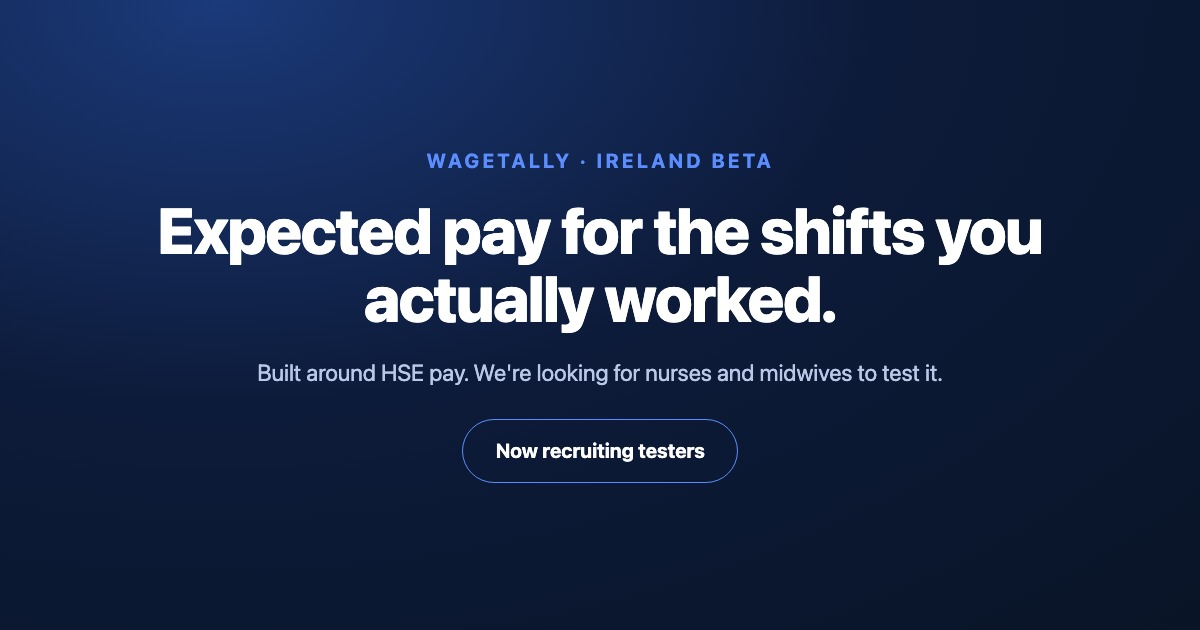
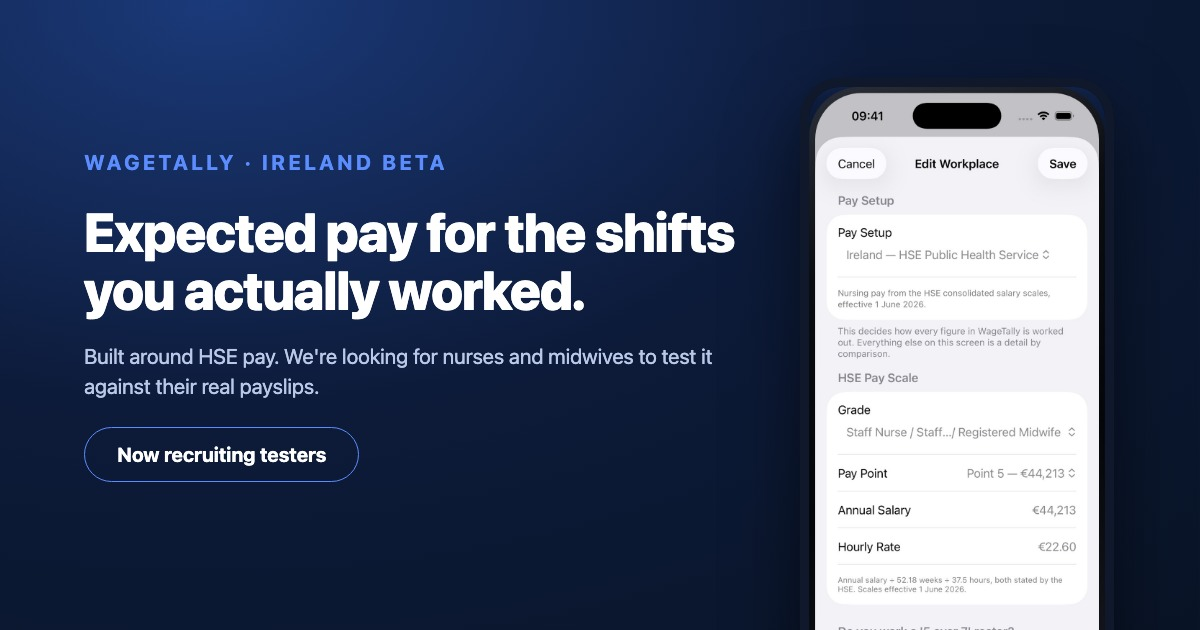
Stop the form pretending, and stop six pages previewing as ShiftProof
Two separate things were shipping broken.

The beta form posted to https://formspree.io/f/YOUR_FORM_ID, which answers 404
FORM_NOT_FOUND. With JavaScript the fetch failed into the error state, which was
survivable; without it the browser navigated the applicant to a third-party JSON
404 and lost them. The endpoint now lives in one place — BETA_FORM_ENDPOINT at
the top of main.js — and the markup carries no action at all until it is set, so
there is nothing to post into. While it is empty, submitting shows a panel that
says plainly that nothing was sent and hands over the two routes that do work:
the TestFlight link, and a mailto pre-filled with the answers just typed. The
privacy note, which promises a Formspree hand-off, is corrected in place before
anyone types rather than after. The success state cannot be reached without a
real endpoint, which was the point.

Separately, og:image on the homepage and all five guides pointed at the old App
Store compositions. Those are 1290x2796 portraits of ~1.4MB with SHIFTPROOF set
as the eyebrow, so every share of those pages on LinkedIn or Facebook previewed
under the old name — on exactly the channels the beta is being recruited
through. og-card.html now renders two proper 1200x630 cards: a text-only one for
the general pages, and an Ireland one carrying a real device shot, now that
there is a WageTally build to shoot. It windows onto the shipped composite with
[…]

diff --git a/tools/og-card.html b/tools/og-card.html
@@ -1,9 +1,22 @@
 <!doctype html>
-<!-- Generator for the 1200x630 social card. Rendered headless at exactly
-     1200x630; see tools/README-og.md for the command. Kept in the repo so the
-     card can be regenerated when the wordmark, claim or domain changes. -->
+<!-- Generator for the 1200x630 social cards. Rendered headless at exactly
+     1200x630; see tools/README-og.md for the commands. Kept in the repo so the
+     cards can be regenerated when the wordmark, claim or domain changes.
+
+     Two cards from one file, chosen with ?card=home or ?card=ie:
+       home — every page except the Ireland beta. Text only, deliberately: the
+              only device shots that are brand-clean and general are the US set,
+              and putting a dollar figure on the card for a site whose current
+              push is Ireland reads as a mismatch.
+       ie   — the Ireland beta page, and the card that actually gets shared in
+              outreach. It carries a real device shot, because a nurse who has
+              never heard of WageTally is deciding in one glance whether this is
+              a working app or a landing page.
+
+     The device shot is windowed out of the shipped composite with the same
+     percentages styles.css uses, so no extra asset has to be committed and the
+     phone can never drift from what the site shows. -->
 <html lang="en"><head><meta charset="utf-8">
-<link rel="stylesheet" href="../styles.css">
 <style>
   html,body{margin:0;padding:0;width:1200px;height:630px;overflow:hidden}
   .card{width:1200px;height:630px;display:flex;align-items:center;
@@ -15,20 +28,60 @@
   p{font-size:23px;line-height:1.42;color:#b9c8e6;margin:0 0 30px}
   .pill{display:inline-block;padding:15px 32px;border-radius:999px;border:1px solid #5C8DFF;
         color:#fff;font-size:20px;font-weight:700}
-  .phone{position:absolute;right:64px;top:64px;width:330px;height:640px;border-radius:44px;
-         border:11px solid #10182b;overflow:hidden;background:#f2f4f8;
-         box-shadow:0 30px 70px rgba(0,0,0,.45)}
-  .phone img{width:100%;display:block}
+
+  /* Two-column variant, used when a device shot is present. */
+  body.has-phone .left{width:auto;max-width:660px;text-align:left;padding:0 0 0 84px}
+  body.has-phone h1{font-size:54px}
+  body.has-phone p{font-size:21px;margin-bottom:26px}
+
+  .phone{position:absolute;right:86px;top:78px;width:296px;
+         aspect-ratio:758 / 1611;border-radius:40px;overflow:hidden;
+         background:#0b0d11;border:9px solid #10182b;
+         box-shadow:0 30px 70px rgba(0,0,0,.5)}
+  /* Same window styles.css performs: the composite is 1290 wide and the device
+     box inside it is 758 x 1611 at x 266, y 980. */
+  .phone img{position:absolute;width:170.185%;left:-35.092%;top:-60.832%;max-width:none}
 </style></head><body>
 <div class="card">
   <div class="left">
-    <p class="eyebrow">WAGETALLY · IRELAND BETA</p>
-    <h1>Expected pay for the shifts you actually worked.</h1>
-    <p>Built around HSE pay. We're looking for nurses and midwives to test it.</p>
-    <span class="pill">Now recruiting testers</span>
+    <p class="eyebrow" id="eyebrow"></p>
+    <h1 id="headline"></h1>
+    <p id="sub"></p>
+    <span class="pill" id="pill"></span>
   </div>
-  <!-- No device shot until the screenshots are re-captured from a WageTally
-       build: the current ones carry the old wordmark in the template AND in
-       the app UI inside them, so embedding one would ship mixed branding. -->
+  <div class="phone" id="phone" hidden>
+    <img src="../assets/web/WageTallyIE-02-BuiltAroundHSEPay.jpg" alt="">
+  </div>
 </div>
+<script>
+  var CARDS = {
+    home: {
+      eyebrow: 'WAGETALLY',
+      headline: 'Know what your shifts should pay.',
+      sub: 'Record the shifts you actually worked, see every premium that applies, then hold the total against your payslip.',
+      // No pill. "On the App Store" would send people to a listing still named
+      // ShiftProof Pay Tracker, and a pricing claim is not worth the risk here.
+      pill: '',
+      phone: false
+    },
+    ie: {
+      eyebrow: 'WAGETALLY · IRELAND BETA',
+      headline: 'Expected pay for the shifts you actually worked.',
+      sub: "Built around HSE pay. We're looking for nurses and midwives to test it against their real payslips.",
+      pill: 'Now recruiting testers',
+      phone: true
+    }
+  };
+  var key = new URLSearchParams(location.search).get('card') || 'home';
+  var c = CARDS[key] || CARDS.home;
+  document.getElementById('eyebrow').textContent = c.eyebrow;
+  document.getElementById('headline').textContent = c.headline;
+  document.getElementById('sub').textContent = c.sub;
+  var pill = document.getElementById('pill');
+  if (c.pill) { pill.textContent = c.pill; } else { pill.remove(); }
+  if (c.phone) {
+    document.body.classList.add('has-phone');
+    document.getElementById('phone').hidden = false;
+  }
+</script>
 </body></html>

diff --git a/ireland-beta.html b/ireland-beta.html
@@ -213,9 +213,13 @@
       </div>
 
       <div class="glass-card ie-form-card">
-        <!-- FORMSPREE ENDPOINT: replace YOUR_FORM_ID below with the endpoint from
-             formspree.io once the form is created. Nothing else needs to change. -->
-        <form class="ie-form" action="https://formspree.io/f/YOUR_FORM_ID" method="POST">
+        <!-- The endpoint lives in ONE place: BETA_FORM_ENDPOINT at the top of
+             main.js. It is deliberately empty until a real form exists, and
+             there is no action="" fallback here on purpose — a placeholder
+             endpoint would post applicants to a third-party 404 page. While the
+             endpoint is empty, main.js intercepts the submit and shows them a
+             route that actually works. -->
+        <form class="ie-form" method="POST">
           <div class="ie-field">
             <label for="name">Your name</label>
             <input type="text" id="name" name="name" autocomplete="name" required>
@@ -251,6 +255,9 @@
 
           <button type="submit" class="btn btn-primary">Apply to join</button>
           <p class="ie-hint ie-form-privacy">This form sends your name, email and answers to us by email through Formspree, the service that handles the form. We use it to contact you about the beta and nothing else. It's separate from the app — the app itself has no account and sends nothing anywhere.</p>
+          <noscript>
+            <p class="ie-hint">This form needs JavaScript to send. With it switched off, email <a href="mailto:bfoster1267@gmail.com">bfoster1267@gmail.com</a> instead — your name, whether you're a nurse or midwife, and whether you're paid under HSE Public Health Service arrangements is all we need. You can <a href="https://testflight.apple.com/join/f9T3AmDC">install the beta on TestFlight</a> straight away either way.</p>
+          </noscript>
         </form>
 
         <!-- Replaces the form after a successful submit. The TestFlight link is
@@ -261,6 +268,19 @@
           <p>Open this on your iPhone and TestFlight will install WageTally:</p>
           <a class="btn btn-primary" href="https://testflight.apple.com/join/f9T3AmDC">Install the beta</a>
           <p class="ie-hint">We'll be in touch by email in a day or two. If the link gives you any trouble, just reply and we'll sort it out.</p>
+        </div>
+
+        <!-- Shown instead of a submit while BETA_FORM_ENDPOINT is empty. It says
+             plainly that nothing was sent, which the error state above cannot do
+             honestly — that one blames a transient fault. TestFlight is revealed
+             here even though the design normally screens first, because the link
+             is already public in "Getting the app" above and stranding someone is
+             the worse outcome. -->
+        <div class="ie-form-done" id="ie-form-unconfigured" hidden>
+          <h3>Nothing was sent — and that's our fault, not yours.</h3>
+          <p>The application form isn't connected to anything yet. Your answers stayed in your browser. Both of these work right now:</p>
+          <a class="btn btn-primary" href="https://testflight.apple.com/join/f9T3AmDC">Install the beta on TestFlight</a>
+          <p class="ie-hint">Then email <a id="ie-form-mailto" href="mailto:bfoster1267@gmail.com">bfoster1267@gmail.com</a> so we know who you are and can follow up — that link opens a message with the answers you just typed already in it. Nothing is sent until you press send in your own mail app.</p>
         </div>
       </div>
     </div>

diff --git a/main.js b/main.js
@@ -1,5 +1,16 @@
-// ShiftProof Website — Main Script
+// WageTally Website — Main Script
 // Minimal vanilla JS for mobile menu and accessibility
+
+// The Ireland beta form's endpoint, and the only line to change to switch the
+// form on. Create a form at formspree.io (or any service that accepts a POST of
+// FormData and answers JSON), then paste its endpoint here, e.g.
+//   var BETA_FORM_ENDPOINT = 'https://formspree.io/f/abcdwxyz';
+//
+// While it is empty the form does not pretend to work: it never posts anywhere,
+// and submitting shows the applicant the TestFlight link and a pre-filled email
+// instead. Do not put a placeholder id here — the previous one posted people to
+// a third-party 404.
+var BETA_FORM_ENDPOINT = '';
 
 // Mobile Menu Toggle
 document.addEventListener('DOMContentLoaded', function() {
@@ -330,11 +341,30 @@ function initBetaForm() {
   if (!done || !error || !button) return;
 
   var label = button.textContent;
+  var endpoint = (typeof BETA_FORM_ENDPOINT === 'string' ? BETA_FORM_ENDPOINT : '').trim();
+
+  // No endpoint means no submission, ever. Setting form.action only when one
+  // exists keeps a JS-less browser from posting into the void as well.
+  if (endpoint) {
+    form.action = endpoint;
+  } else {
+    // The privacy note describes a Formspree hand-off that is not happening
+    // yet. Correct it before anyone types into the form rather than after.
+    var privacy = form.querySelector('.ie-form-privacy');
+    if (privacy) {
+      privacy.textContent = "Heads up: this form isn't connected yet, so pressing Apply won't send anything — it will show you how to reach us instead. You can install the beta on TestFlight now either way.";
+    }
+  }
 
   form.addEventListener('submit', function (event) {
     // Let the browser show its own validation UI before we take over.
     if (!form.checkValidity()) return;
     event.preventDefault();
+
+    if (!endpoint) {
+      showUnconfigured(form);
+      return;
+    }
 
     error.hidden = true;
     button.disabled = true;
@@ -357,4 +387,34 @@ function initBetaForm() {
       button.textContent = label;
     });
   });
+}
+
+// Swaps the form for a state that says nothing was sent, and hands over the two
+// routes that do work: TestFlight, and an email pre-filled with what they typed.
+// The mailto is built here rather than in markup so it carries their answers; it
+// opens their own mail client and sends nothing on its own.
+function showUnconfigured(form) {
+  var panel = document.getElementById('ie-form-unconfigured');
+  if (!panel) return;
+
+  var link = document.getElementById('ie-form-mailto');
+  if (link) {
+    var data = new FormData(form);
+    var lines = [
+      'Name: ' + (data.get('name') || ''),
+      'Nurse or midwife: ' + (data.get('role') || ''),
+      'Paid under HSE Public Health Service arrangements: ' + (data.get('hse') || ''),
+      'Has an iPhone: ' + (data.get('iphone') ? 'Yes' : 'No'),
+      '',
+      "I'd like to join the WageTally Ireland beta."
+    ];
+    link.href = link.href.split('?')[0]
+      + '?subject=' + encodeURIComponent('WageTally Ireland beta')
+      + '&body=' + encodeURIComponent(lines.join('\n'));
+  }
+
+  form.hidden = true;
+  panel.hidden = false;
+  panel.setAttribute('tabindex', '-1');
+  panel.focus();
 }

diff --git a/index.html b/index.html
@@ -9,7 +9,7 @@
   <!-- Open Graph -->
   <meta property="og:title" content="WageTally – Know Your Next Paycheck">
   <meta property="og:description" content="Calculate your expected gross pay automatically. Track shifts, overtime, differentials, and premiums.">
-  <meta property="og:image" content="https://bfoster1267-ctrl.github.io/Shiftproof-website/assets/ShiftProof-01-KnowYourNextPaycheck.png">
+  <meta property="og:image" content="https://bfoster1267-ctrl.github.io/Shiftproof-website/assets/WageTally-og.jpg">
   <meta property="og:type" content="website">
   <link rel="canonical" href="https://bfoster1267-ctrl.github.io/Shiftproof-website/">
 
@@ -54,7 +54,7 @@
     "@type": "Organization",
     "name": "WageTally",
     "url": "https://bfoster1267-ctrl.github.io/Shiftproof-website/",
-    "logo": "https://bfoster1267-ctrl.github.io/Shiftproof-website/assets/ShiftProof-01-KnowYourNextPaycheck.png"
+    "logo": "https://bfoster1267-ctrl.github.io/Shiftproof-website/assets/WageTally-og.jpg"
   }
   </script>
 

diff --git a/articles/shift-differentials-explained.html b/articles/shift-differentials-explained.html
@@ -7,7 +7,7 @@
   <meta name="description" content="How night, weekend, and holiday shift differentials typically work, how they're usually calculated, and how to check they're showing up in your expected gross pay.">
   <meta property="og:title" content="Shift Differentials Explained: Night, Weekend & Holiday Pay">
   <meta property="og:description" content="How night, weekend, and holiday shift differentials typically work.">
-  <meta property="og:image" content="https://bfoster1267-ctrl.github.io/Shiftproof-website/assets/ShiftProof-04-NeverMissPremiumPay.png">
+  <meta property="og:image" content="https://bfoster1267-ctrl.github.io/Shiftproof-website/assets/WageTally-og.jpg">
   <meta property="og:type" content="article">
   <link rel="canonical" href="https://bfoster1267-ctrl.github.io/Shiftproof-website/articles/shift-differentials-explained.html">
 

diff --git a/articles/pay-periods-explained.html b/articles/pay-periods-explained.html
@@ -7,7 +7,7 @@
   <meta name="description" content="The difference between weekly, biweekly, and semimonthly pay periods, why your pay dates shift, and why it matters for how overtime is calculated.">
   <meta property="og:title" content="Pay Periods Explained: Weekly, Biweekly & Semimonthly">
   <meta property="og:description" content="The difference between weekly, biweekly, and semimonthly pay periods, and why your dates shift.">
-  <meta property="og:image" content="https://bfoster1267-ctrl.github.io/Shiftproof-website/assets/ShiftProof-05-MonthlyEarnings.png">
+  <meta property="og:image" content="https://bfoster1267-ctrl.github.io/Shiftproof-website/assets/WageTally-og.jpg">
   <meta property="og:type" content="article">
   <link rel="canonical" href="https://bfoster1267-ctrl.github.io/Shiftproof-website/articles/pay-periods-explained.html">
 

diff --git a/articles/checking-your-paycheck.html b/articles/checking-your-paycheck.html
@@ -7,7 +7,7 @@
   <meta name="description" content="A step-by-step way to compare your expected gross pay against your actual paycheck — what to check first, and what to do if the numbers don't match.">
   <meta property="og:title" content="Checking Your Paycheck Against the Shifts You Worked">
   <meta property="og:description" content="A step-by-step way to compare your expected gross pay against your actual paycheck.">
-  <meta property="og:image" content="https://bfoster1267-ctrl.github.io/Shiftproof-website/assets/ShiftProof-01-KnowYourNextPaycheck.png">
+  <meta property="og:image" content="https://bfoster1267-ctrl.github.io/Shiftproof-website/assets/WageTally-og.jpg">
   <meta property="og:type" content="article">
   <link rel="canonical" href="https://bfoster1267-ctrl.github.io/Shiftproof-website/articles/checking-your-paycheck.html">
 

diff --git a/articles/role-premiums-explained.html b/articles/role-premiums-explained.html
@@ -7,7 +7,7 @@
   <meta name="description" content="What charge, preceptor, and float premiums are, how they're usually paid, and how to make sure they're showing up correctly in your expected gross pay.">
   <meta property="og:title" content="Charge, Preceptor & Float Premiums: What Role Pay Adds">
   <meta property="og:description" content="What charge, preceptor, and float premiums are, and how they're usually paid.">
-  <meta property="og:image" content="https://bfoster1267-ctrl.github.io/Shiftproof-website/assets/ShiftProof-04-NeverMissPremiumPay.png">
+  <meta property="og:image" content="https://bfoster1267-ctrl.github.io/Shiftproof-website/assets/WageTally-og.jpg">
   <meta property="og:type" content="article">
   <link rel="canonical" href="https://bfoster1267-ctrl.github.io/Shiftproof-website/articles/role-premiums-explained.html">
 

diff --git a/articles/weekly-overtime-calculated.html b/articles/weekly-overtime-calculated.html
@@ -7,7 +7,7 @@
   <meta name="description" content="How weekly overtime thresholds work, why weekly and daily overtime rules can disagree, and how to check the overtime split on your own paycheck.">
   <meta property="og:title" content="How Weekly Overtime Is Calculated">
   <meta property="og:description" content="How weekly overtime thresholds work, and why weekly and daily rules can disagree.">
-  <meta property="og:image" content="https://bfoster1267-ctrl.github.io/Shiftproof-website/assets/ShiftProof-02-AutomaticOvertime.png">
+  <meta property="og:image" content="https://bfoster1267-ctrl.github.io/Shiftproof-website/assets/WageTally-og.jpg">
   <meta property="og:type" content="article">
   <link rel="canonical" href="https://bfoster1267-ctrl.github.io/Shiftproof-website/articles/weekly-overtime-calculated.html">
 

diff --git a/styles.css b/styles.css
@@ -1,4 +1,4 @@
-/* ShiftProof Marketing Website */
+/* WageTally Marketing Website */
 /* Design System */
 
 :root {

diff --git a/tools/README-og.md b/tools/README-og.md
@@ -1,14 +1,36 @@
-# Social card
+# Social cards
 
-`og-card.html` renders the 1200x630 `og:image`. Regenerate after any change to
-the wordmark, the claim, or the embedded screenshot:
+`og-card.html` renders both 1200x630 `og:image` cards. Regenerate after any
+change to the wordmark, the claim, the embedded screenshot, or the domain.
+
+- `?card=home` → `assets/WageTally-og.jpg`, used by the homepage and every guide.
+- `?card=ie` → `assets/WageTallyIE-og.jpg`, used by the Ireland beta page. This
+  is the one that gets shared in tester outreach, and the only one carrying a
+  device shot.
+
+The device shot is windowed out of `assets/web/WageTallyIE-02-BuiltAroundHSEPay.jpg`
+with the same percentages `styles.css` uses, so there is no separate asset to
+keep in step — regenerating the screenshots regenerates the card.
+
+The page needs to be served over HTTP rather than opened from disk, so the
+embedded screenshot loads:
 
 ```
-"/Applications/Google Chrome.app/Contents/MacOS/Google Chrome" \
-  --headless --disable-gpu --hide-scrollbars --force-device-scale-factor=1 \
-  --window-size=1200,630 --screenshot=/tmp/og.png \
-  http://localhost:8765/tools/og-card.html
+python3 -m http.server 8765 &
+CHROME="/Applications/Google Chrome.app/Contents/MacOS/Google Chrome"
+for card in home ie; do
+  "$CHROME" --headless --disable-gpu --hide-scrollbars \
+    --force-device-scale-factor=1 --window-size=1200,630 \
+    --screenshot=/tmp/og-$card.png \
+    "http://localhost:8765/tools/og-card.html?card=$card"
+done
 ```
 
-Then encode to JPEG. It must stay well under ~300KB: WhatsApp silently drops
-larger preview images, and this link is shared in DMs.
+Then encode to JPEG. Both must stay well under ~300KB: WhatsApp silently drops
+larger preview images, and these links are shared in DMs. At quality 92 they
+currently come out at 46KB (home) and 85KB (ie).
+
+**Never point `og:image` at an App Store composition.** Those are 1290x2796
+portraits of 1.4MB, the wrong shape for a social card, and the pre-WageTally set
+carries the old wordmark as its eyebrow — six pages were previewing as
+SHIFTPROOF on LinkedIn before this file grew a second card.

diff --git a/README.md b/README.md
@@ -1,4 +1,4 @@
-# ShiftProof Marketing Website
+# WageTally Marketing Website
 
 A production-ready, static marketing website for ShiftProof — an iOS app that helps hourly workers track shifts and calculate expected gross pay.
 
